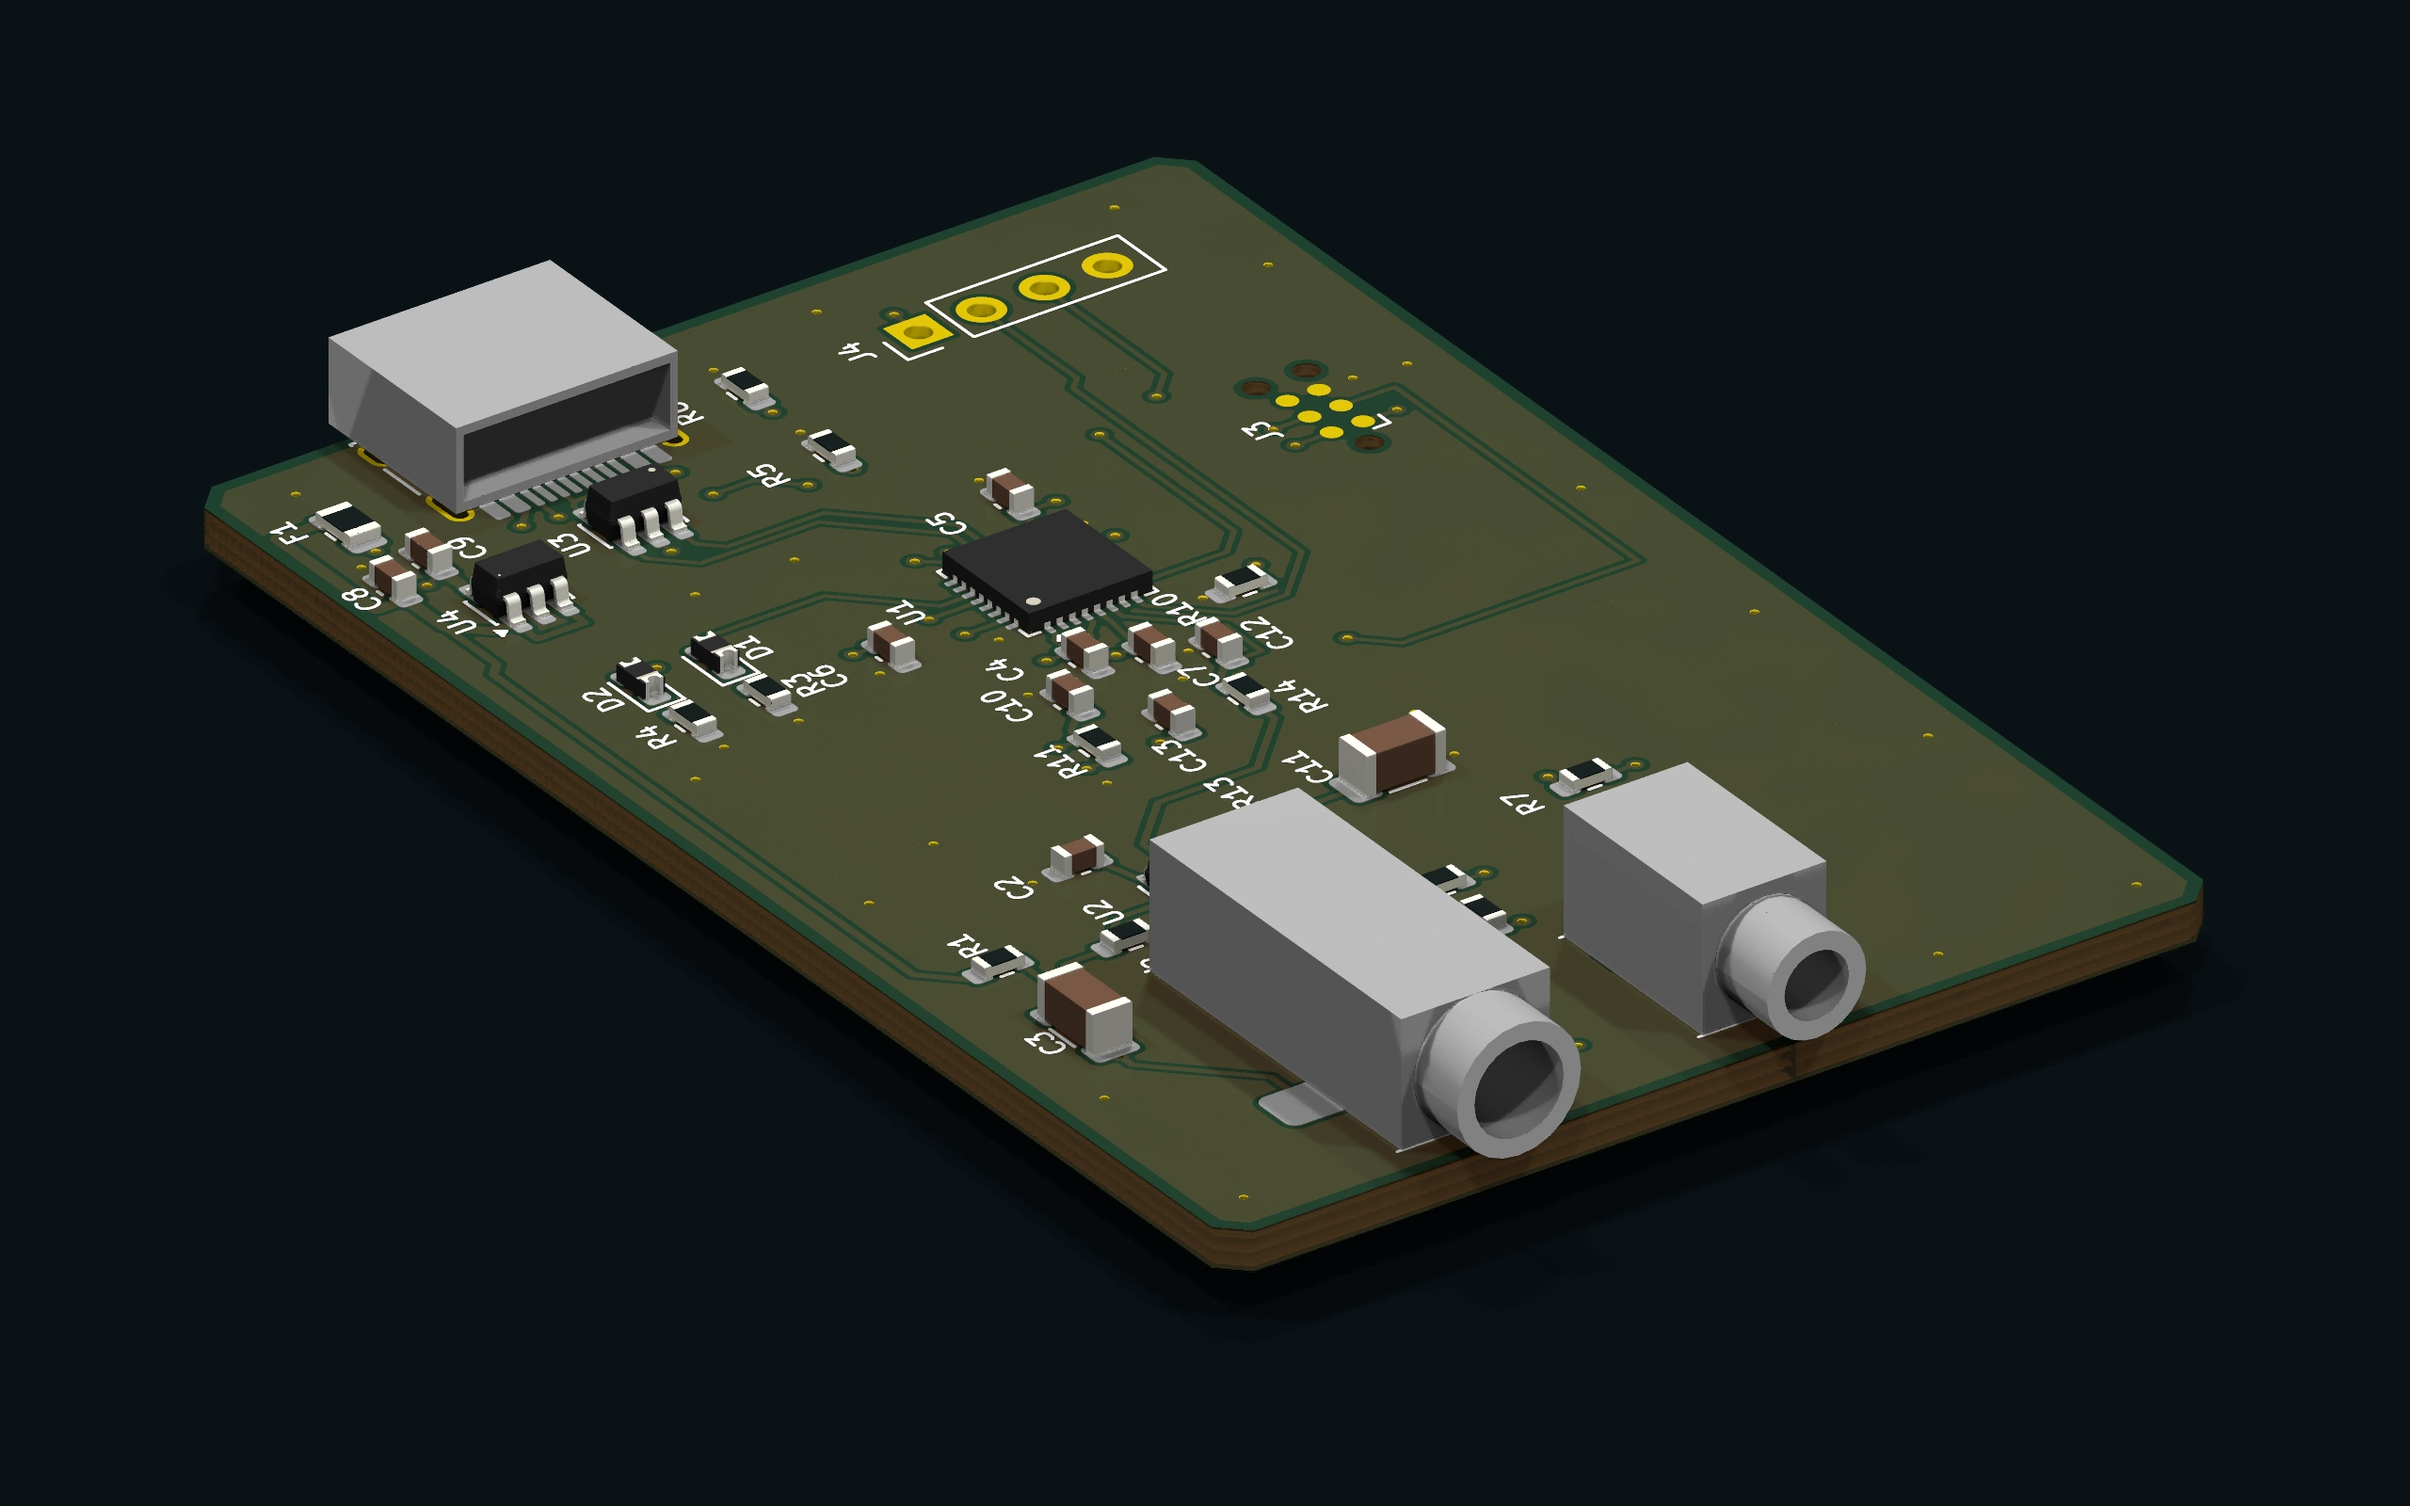
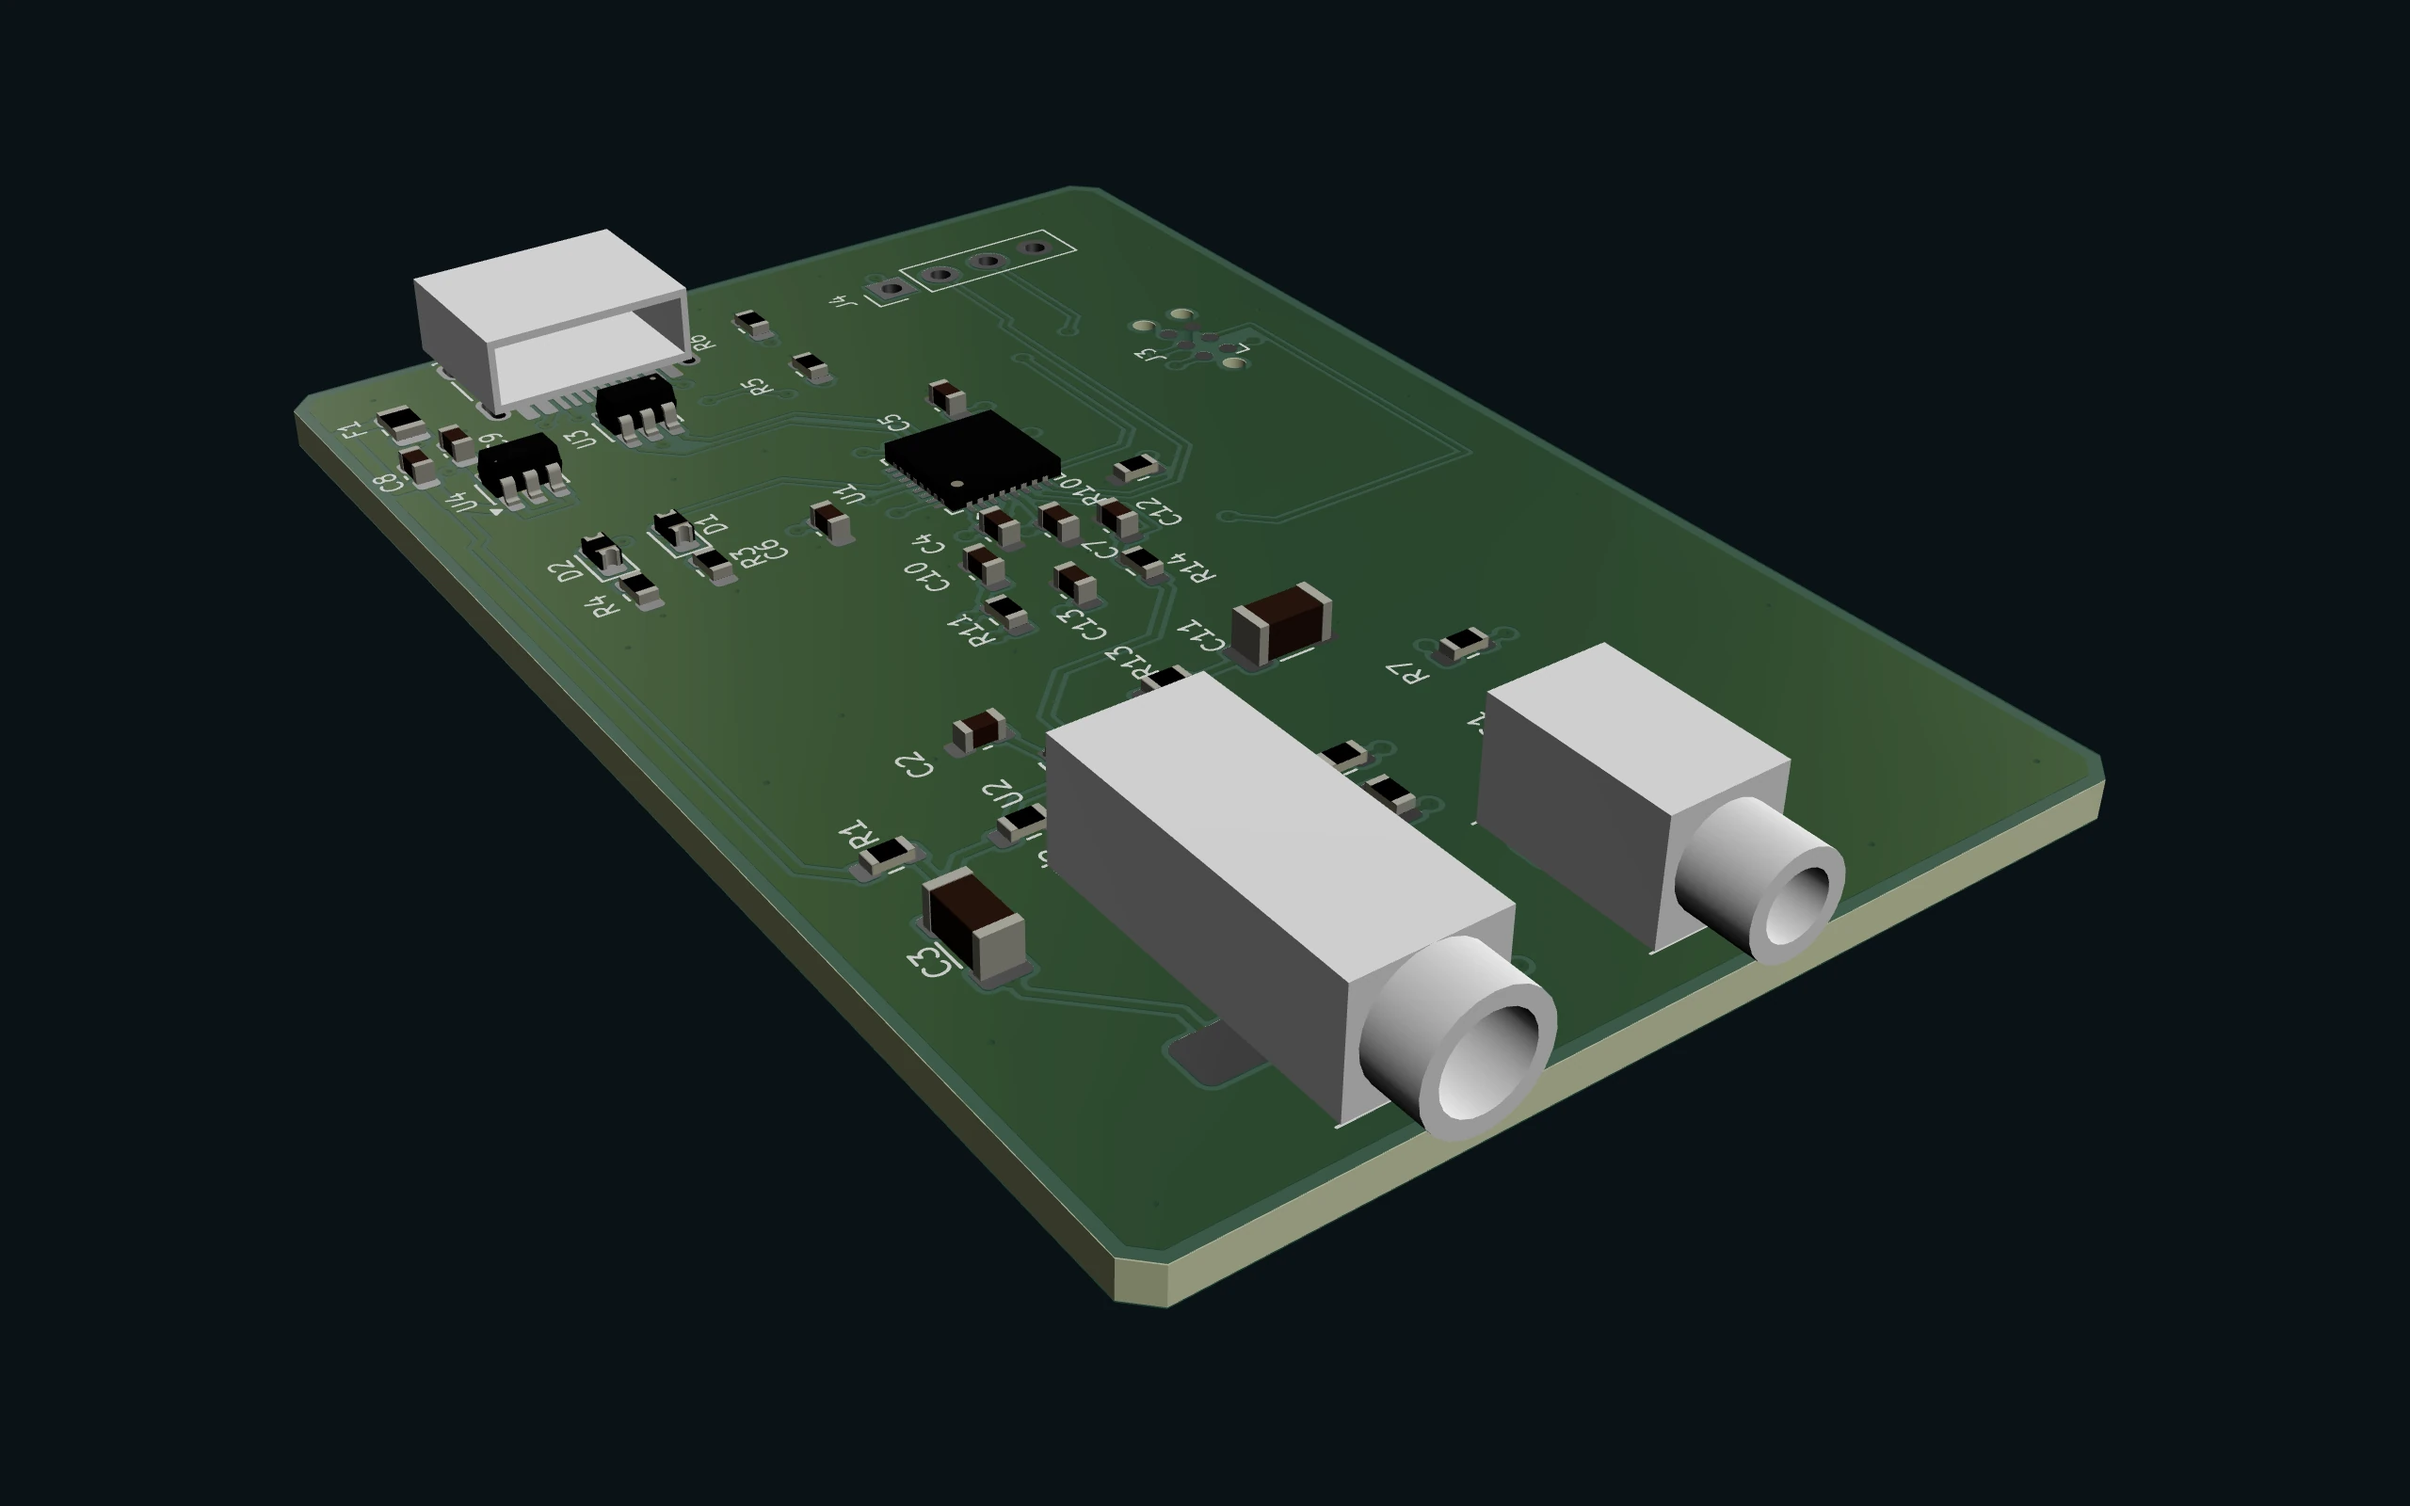
Render the board poster from the viewer's opening view, with a deeper soldermask, so the model fades in over it without a jump

Changed region(s): [[0.0625, 0.0938, 0.9375, 0.875]]

diff --git a/public/kicad-viewer/embed.js b/public/kicad-viewer/embed.js
@@ -319,6 +319,21 @@ async function mountModel(host, src) {
   return mounted;
 }
 
+/**
+ * Backplane's finish, a stop darker for this page: the soldermask at the deep
+ * green of KiCad's own render, and the scene exposed for the dark ground.
+ */
+function deepen(viewer) {
+  const soldermasks = new Set();
+  viewer.content.traverse((object) => {
+    if (!object.isMesh || !/_soldermask(?:_|$)/i.test(object.name)) return;
+    for (const material of [object.material].flat()) soldermasks.add(material);
+  });
+  for (const material of soldermasks) material.color.multiplyScalar(0.55);
+  viewer.state.exposure = -0.6;
+  viewer.updateLights();
+}
+
 /** Each mesh's bounding box corners, in the scene: what the opening view fits. */
 function cornersOf(content, { Box3, Vector3 }) {
   const corners = [];
@@ -360,6 +375,7 @@ function stageModel(element, { three, TrackballControls }) {
   viewer.renderer.setPixelRatio(Math.min(devicePixelRatio, 2));
   viewer.state.bgColor = GROUND;
   viewer.updateBackground();
+  deepen(viewer);
 
   const size = new Box3()
     .setFromObject(viewer.content)
